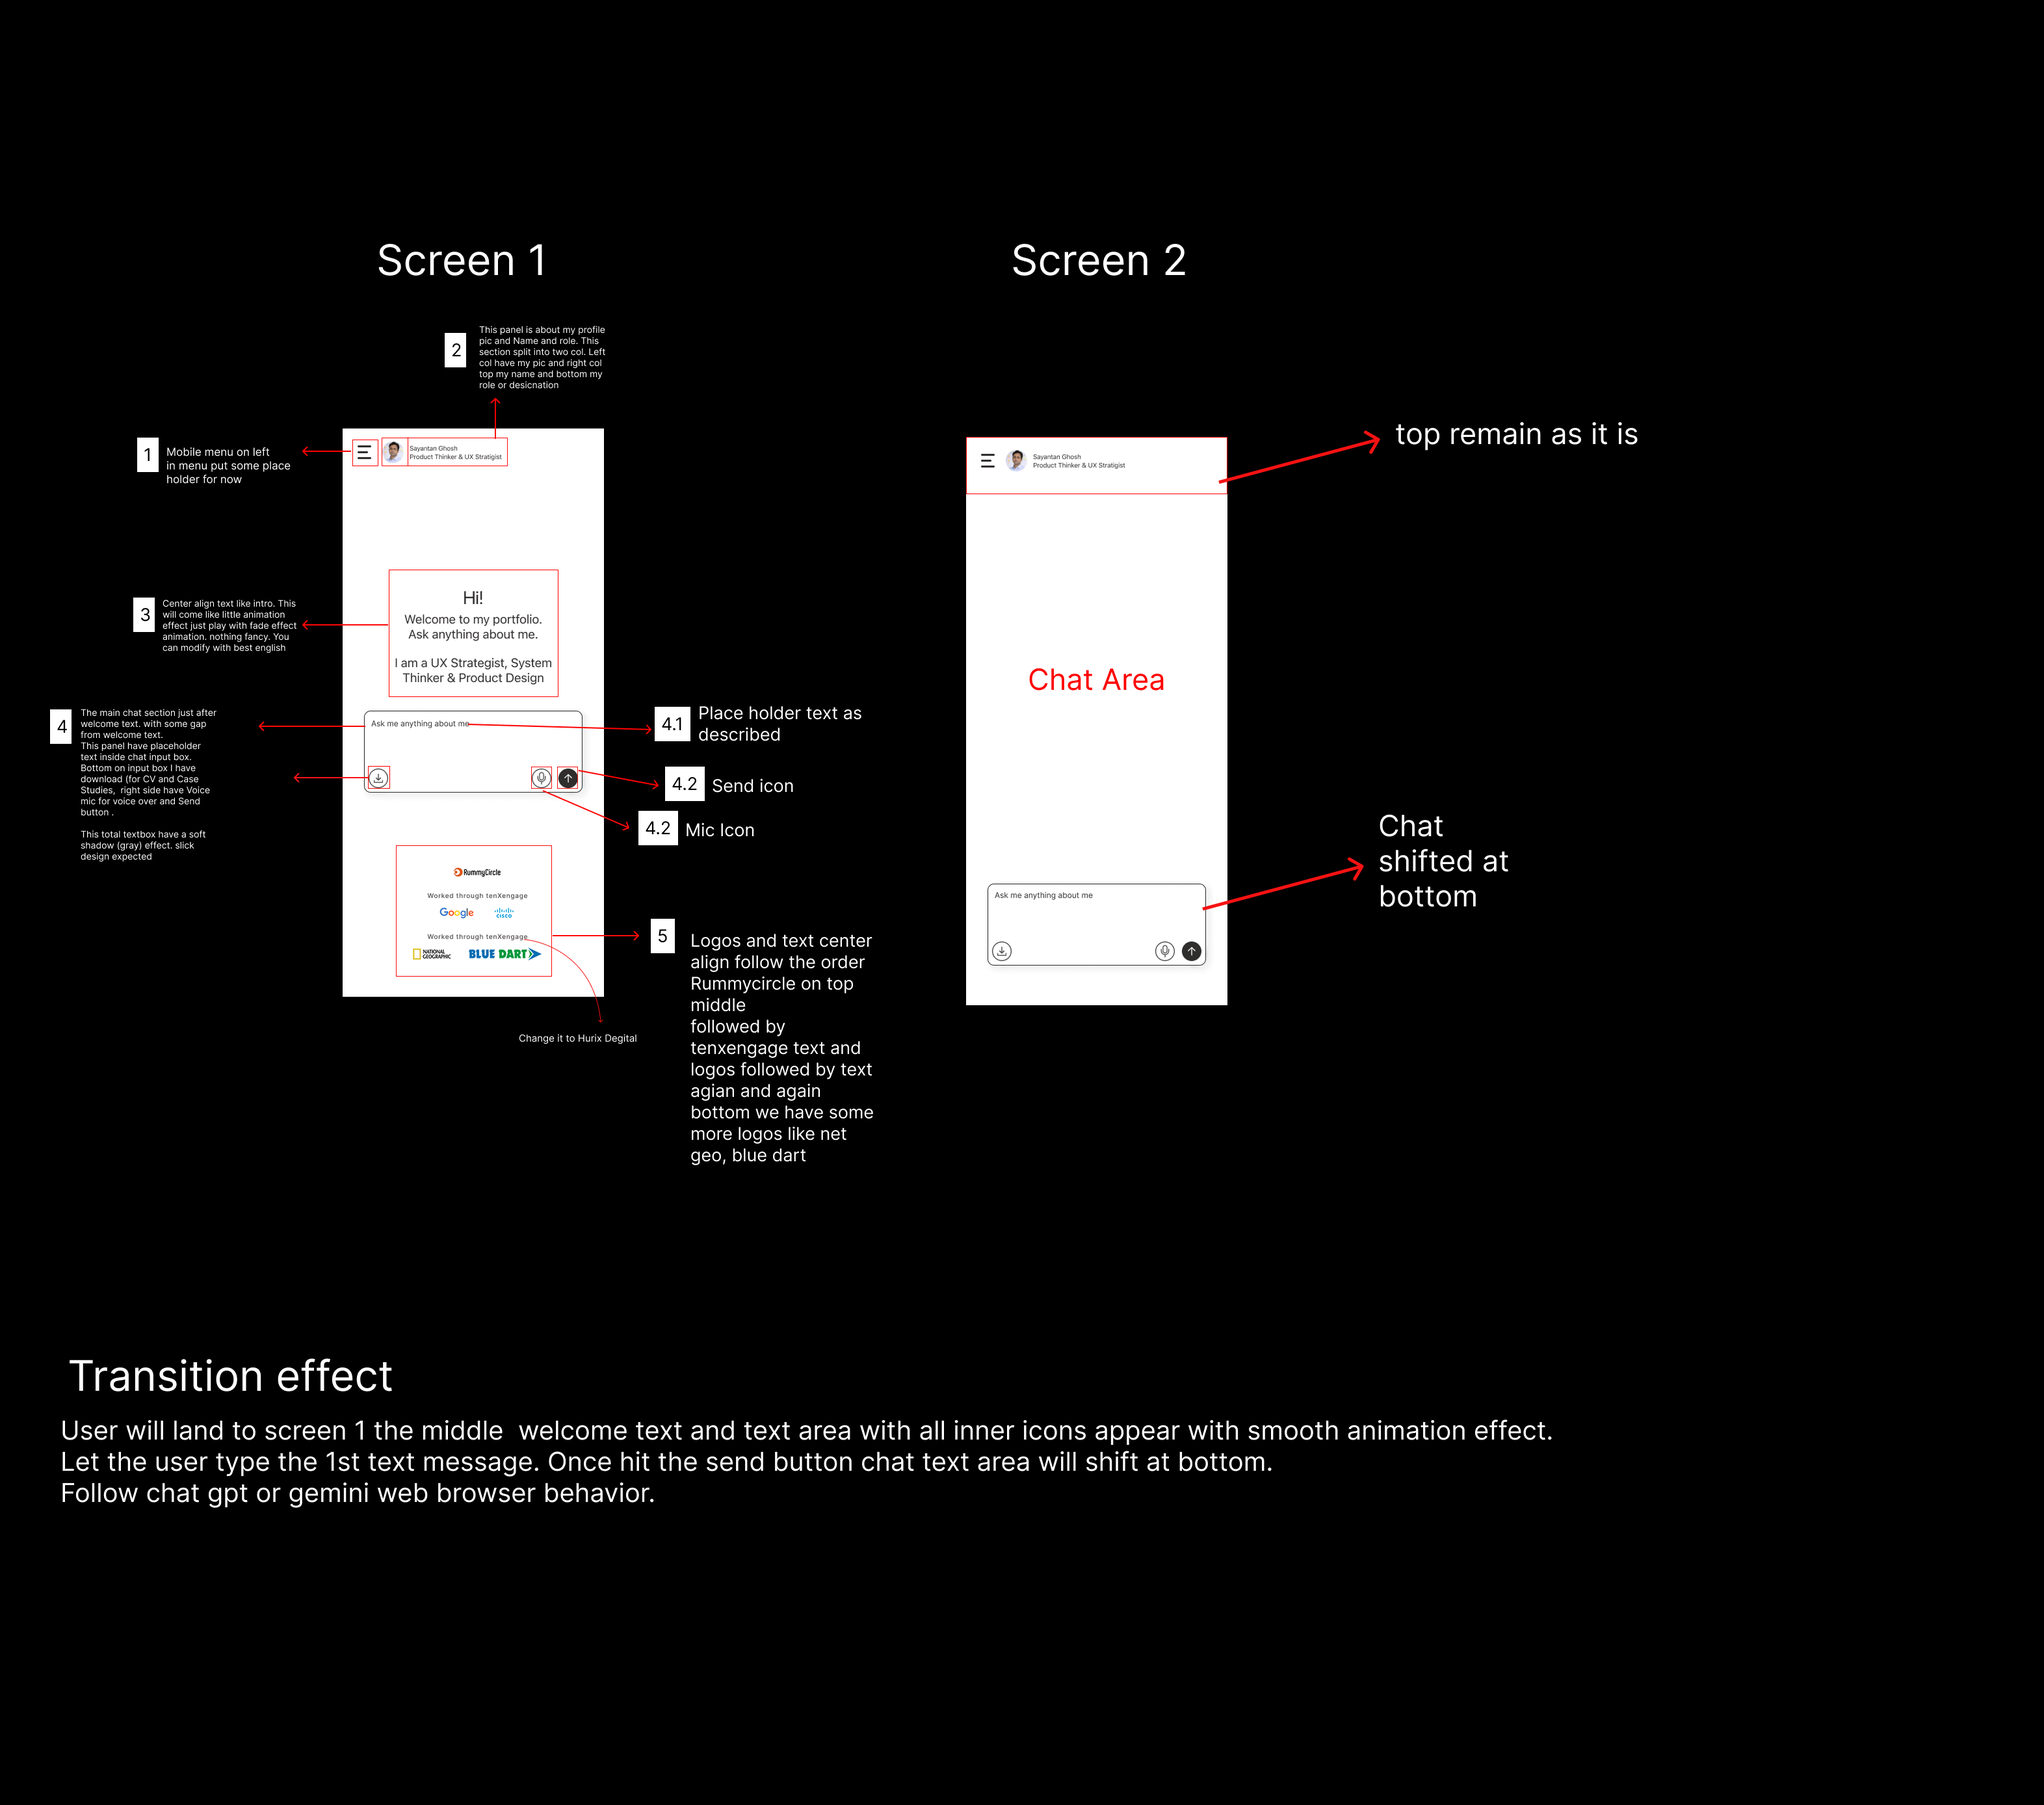
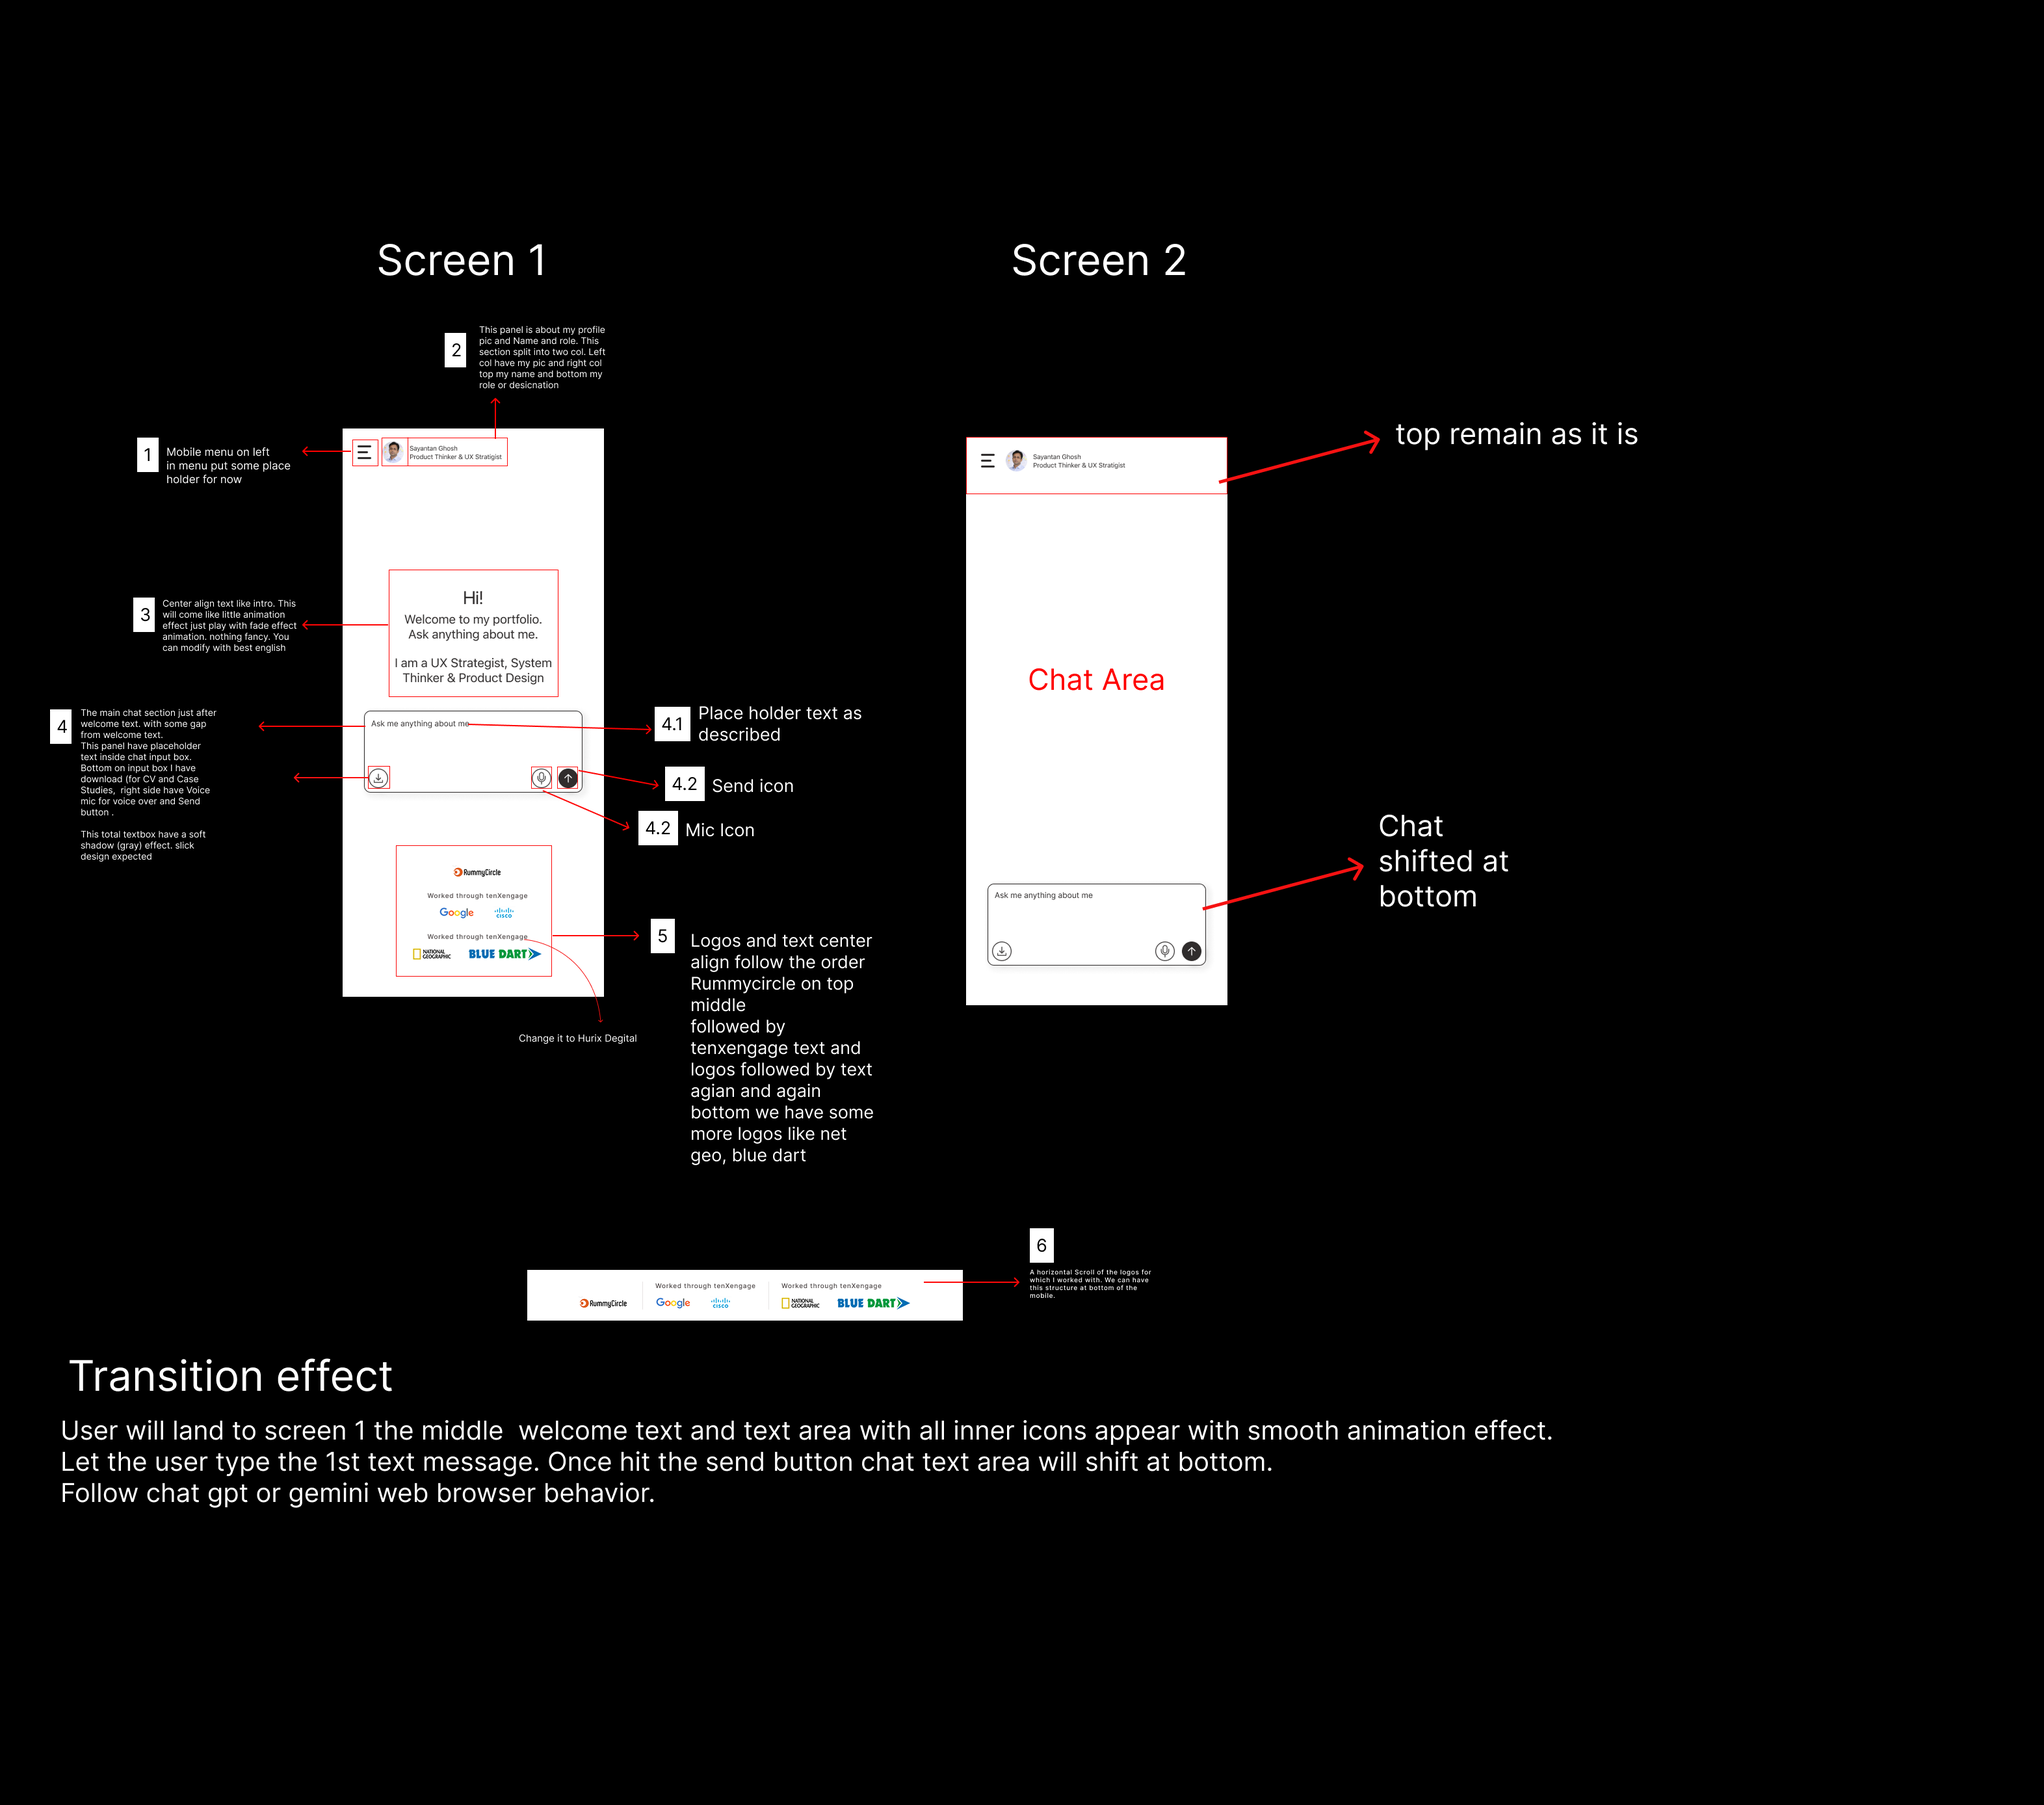
Add files via upload

Changed region(s): [[0.2494, 0.6816, 0.4676, 0.7435], [0.4987, 0.6816, 0.5299, 0.7125]]

diff --git a/index.html b/index.html
@@ -171,11 +171,19 @@
       <div class="partners-container" id="landing-partners">
         <div class="partners-scroller">
           
-          <!-- Group 1: tenXengage clients -->
+          <!-- RummyCircle (No label) -->
+          <div class="partner-group no-label">
+            <div class="partner-group-logos">
+              <img src="images/rc_color.png" alt="RummyCircle" class="partner-logo-large logo-invert-text">
+            </div>
+          </div>
+          
+          <div class="divider-line"></div>
+          
+          <!-- Group 1: Worked through tenXengage (Google & Cisco) -->
           <div class="partner-group">
             <span class="partner-group-label">Worked through tenXengage</span>
             <div class="partner-group-logos">
-              <img src="images/rc_color.png" alt="RummyCircle" class="partner-logo-large logo-invert-text">
               <img src="images/google_color.png" alt="Google" class="partner-logo">
               <img src="images/cisco_color.png" alt="Cisco" class="partner-logo">
             </div>
@@ -183,9 +191,9 @@
           
           <div class="divider-line"></div>
           
-          <!-- Group 2: Direct clients -->
+          <!-- Group 2: Worked through tenXengage (National Geographic & Hurix Digital) -->
           <div class="partner-group">
-            <span class="partner-group-label">Direct Projects</span>
+            <span class="partner-group-label">Worked through tenXengage</span>
             <div class="partner-group-logos">
               <img src="images/netgio_color.png" alt="National Geographic" class="partner-logo">
               <img src="images/hurix_color.webp" alt="Hurix Digital" class="partner-logo">

diff --git a/style.css b/style.css
@@ -559,6 +559,10 @@ body {
   flex-shrink: 0;
 }
 
+.partner-group.no-label {
+  margin-top: auto;
+}
+
 .partner-group-label {
   font-size: 8px;
   text-transform: uppercase;
